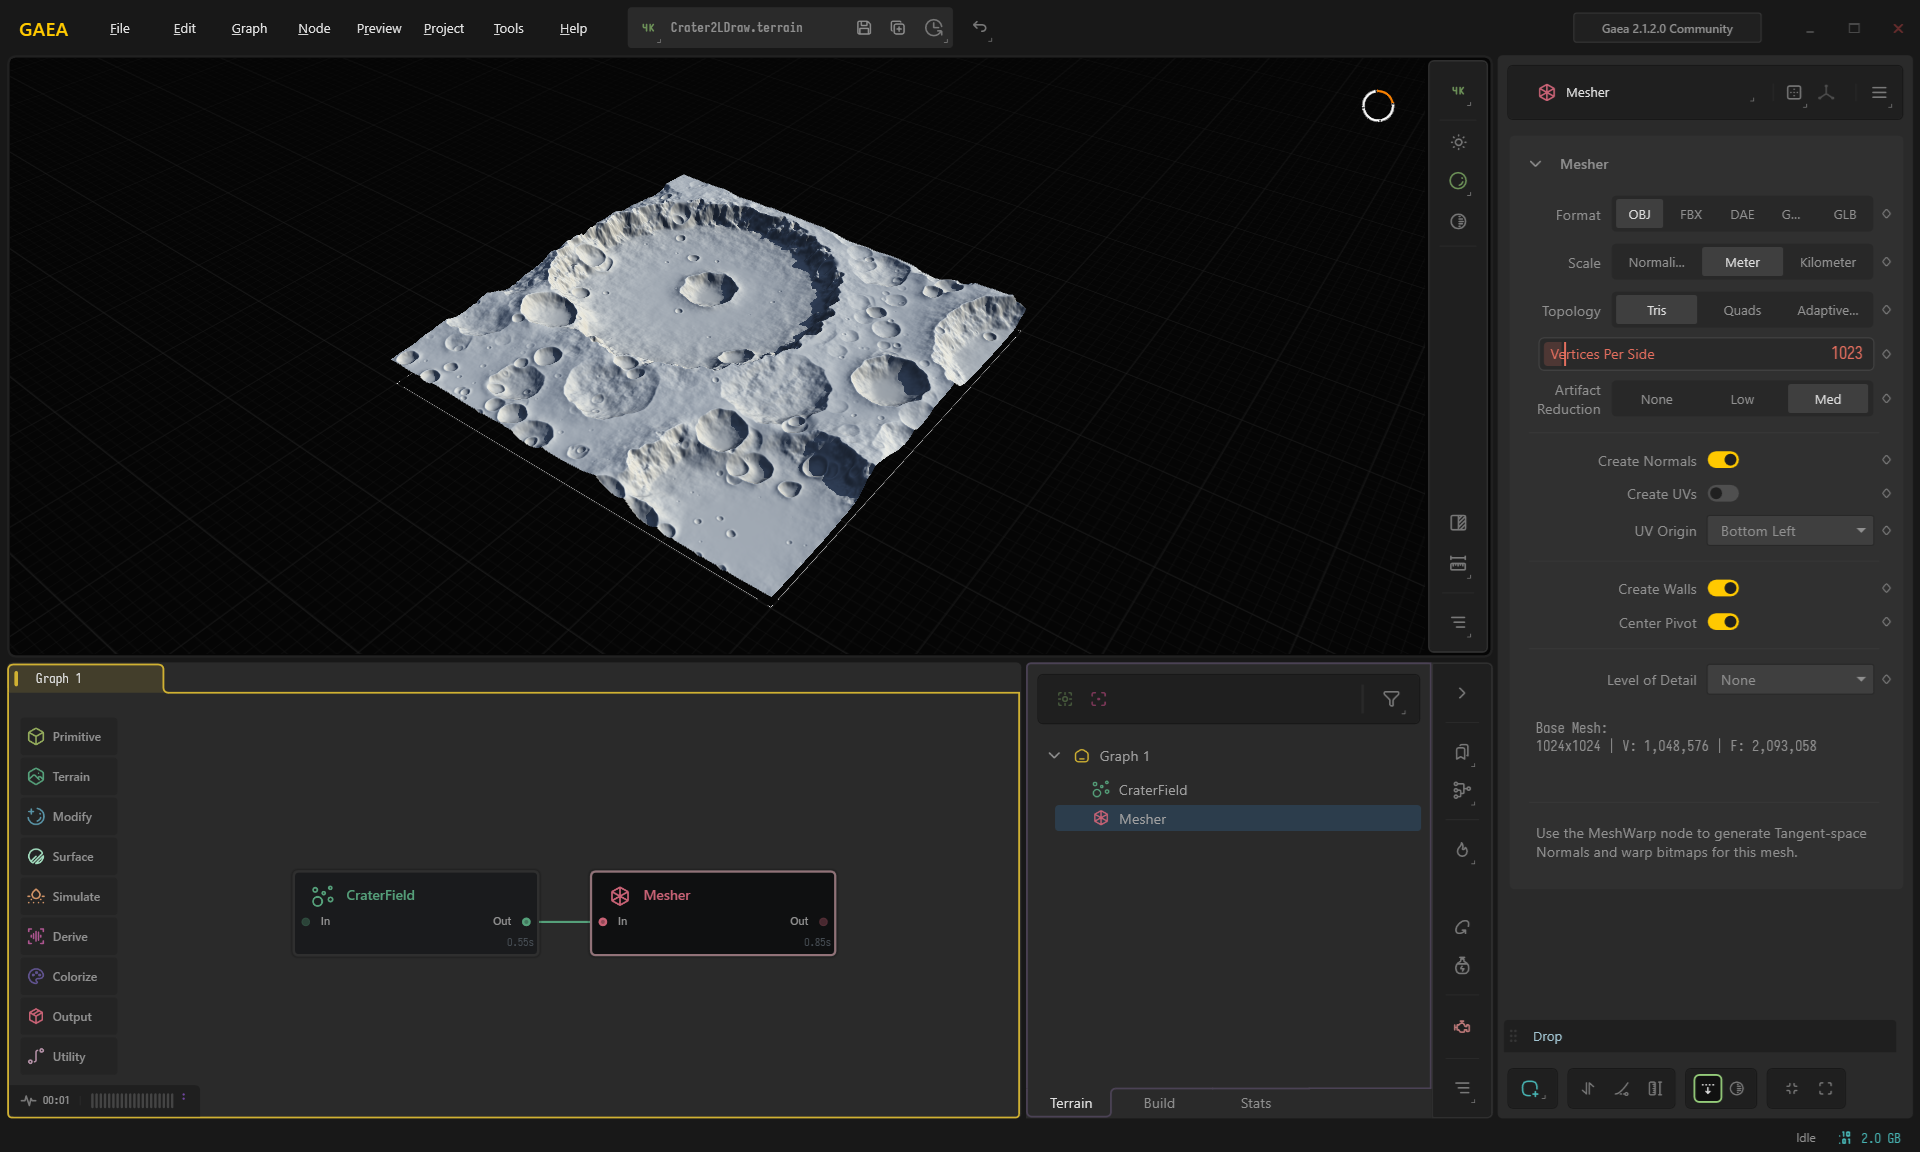
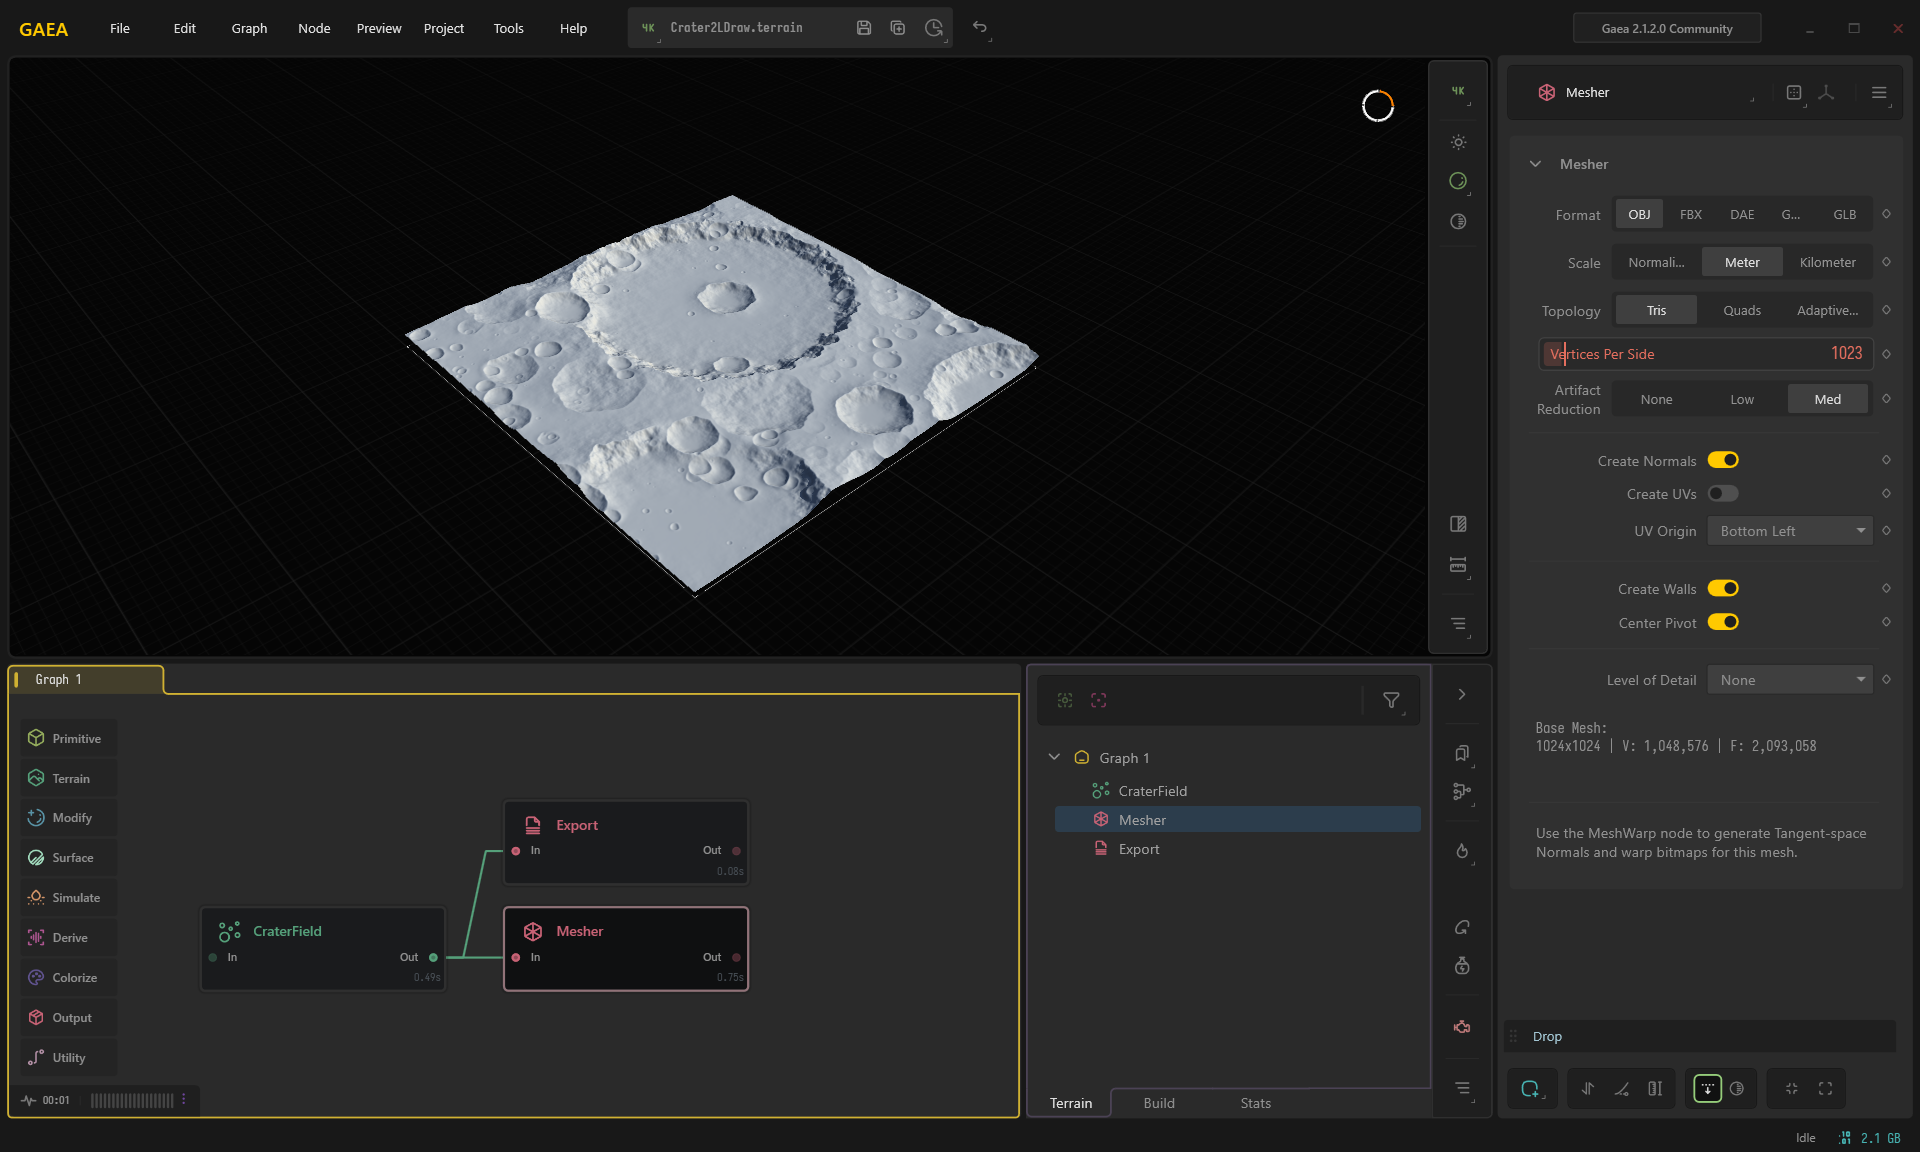
Optimizations

diff --git a/README.md b/README.md
@@ -3,11 +3,11 @@
 ## Disclaimer
 
 The following instructions are intended to serve as an idea on how to create a crater landscape compatible with LDraw. 
-There are several ways to generate such landscapes or cliffs. For example, the following JavaScripts:
+There are several ways to generate landscapes or cliffs. For example, the following JavaScripts:
 - https://gitlab.com/sylvainls/ldraw_landscape.html
 - https://gitlab.com/sylvainls/ldraw_cliff.html
 
-Unfortunately, these variants do not work for crater landscapes. This prompted the idea of using Gaea to export the generated landscape into an LDraw-compatible format. The procedure described below should be possible for any landscape generated with Gaea, not just for crater landscapes. However, since Bricklink Studio uses bricks instead of plates, an intermediate step with, for example, MeshLab would probably be necessary to first scale the landscape generated in Gaea along the z-axis. The basic idea, however, remains the same.
+Unfortunately, these variants do not work directly for crater landscapes. This prompted the idea of using Gaea to export the generated landscape into an LDraw-compatible format somehow. The procedure described below should be possible for any landscape generated with Gaea, not just for crater landscapes. However, since Bricklink Studio uses bricks instead of plates, an intermediate step with MeshLab is necessary to first scale the landscape generated in Gaea along the z-axis. The basic idea, however, remains the same. Alternatively you can stop after step 4 and use the generated heightfield *.png (grayscale) file together with https://gitlab.com/sylvainls/ldraw_landscape.html. This is probably easier, but also less accurate. Do whatever you think is the better way in your case.
 
 The instructions assume that you already have some familiarity with Bricklink Studio. Accordingly, not every step is explained in detail.
 
@@ -20,8 +20,7 @@ The instructions assume that you already have some familiarity with Bricklink St
 
 ### Step 1
 Create a new crater field within Gaea. Play with the values as you wish.  
-- **Comment I**:  I took a depth of 2, because later in the process the z-axis is compressed by replacing bricks with plates.
-- **Comment II**:  Activate the drop option to place the generated terrain as low as possible.
+- **Comment**: Activate the drop option to place the generated terrain as low as possible.
 
 ![Alt-Text](images/step_01.png)
 
@@ -32,47 +31,94 @@ Add a Mesher to later export the generated terrain as *.obj file.
 
 ![Alt-Text](images/step_02.png)
 
-### Step 3
-Once you are satisfied with your terrain, it can be exported by building the project.
+### Step 3 
+Add an Export to later export the generated terrain as a heightfield *.png (grayscale) file.
+- **Comment I**: Activate the drop option to place the generated terrain as low as possible.
+- **Comment II**: Activate the autolevel to get a clear heightfield file with black as the lowest point and white as the highest.
 
 ![Alt-Text](images/step_03.png)
 
 ### Step 4
-Open Bricklink Studio and import the 3D model (*.ojb file) you previously created and exported with Gaea.
+Once you are satisfied with your terrain, it can be exported by building the project. An *.obj file and a heightfield *.png (grayscale) file are generated.
+- **Comment**: The generated *.obj file is too large to put it on GitHub. 104MB in our example here.
 
 ![Alt-Text](images/step_04.png)
 
-### Step 5
-Adjust your import settings.
-- **Comment I**: Be aware of the fact that the generated model will contain only bricks and not plates.
-- **Comment II**: You can play around with the different values for each options. But the ones in the screenshot worked for me. Escpecially the option 'Allocate a step per Layer' is very helpful for the later process.
+The exported heightfield *.png (grayscale) file looks as follows.
 
-![Alt-Text](images/step_05.png)
+![Alt-Text](images/step_04_export.png)
+
+### Step 5
+If you wish you can stop following the instructions here and use the generated heightfield file from the previous step together with https://gitlab.com/sylvainls/ldraw_landscape.html. This is probably easier, but also less accurate. Alternatively you can follow the next steps.
 
 ### Step 6
-Wait...
-
+Import the previously generated *.obj file.
 ![Alt-Text](images/step_06.png)
 
 ### Step 7
-Once the waiting is over close the appearing error window by pressing x.
-- **Comment**: I'm unsure why this error appears. One possibility I can think of are the collisions in the model (we fix them later) or the fact that there are too many parts in the model to compute the connectivities.
-
+The generated terrain from Gaea should be visible.
 ![Alt-Text](images/step_07.png)
 
 ### Step 8
-If everything worked as expected you should see the generated terrain from Gaea built ouf of bricks.
-- **Comment**: The model does have collisions. I assume this is because of some rounding errors / edge cases within the conversation algorithm of Bricklink Studio (we fix them later).
-
+Go to 'Filters' -> 'Normal, Curvatures and Orientation' -> 'Transform: Scale, Normalize'
 ![Alt-Text](images/step_08.png)
 
 ### Step 9
-Export the model in the LDraw format.
-- **Comment**: This is done to later replace the bricks within the model with plates. There is maybe a better way of doing it directly within Bricklink Studio, but I am not aware of such a way.
+Scale only the logically z-axis of the model by factor 3.
+- **Comment**: In our case the logically z-axis is technically the y-axis. Use the axis corresponding to the height of the model and deactivate 'Uniform Scaling'.
 
 ![Alt-Text](images/step_09.png)
 
 ### Step 10
+The generated terrain from Gaea should be visible again but with a higher height.
+
+![Alt-Text](images/step_10.png)
+
+### Step 11
+Go to 'File' -> 'Export Mesh As...'
+
+![Alt-Text](images/step_11.png)
+
+### Step 12
+Save the new model again as a (different) *.obj file.
+![Alt-Text](images/step_12.png)
+
+### Step 13
+Open Bricklink Studio and import the 3D model (*.ojb file) you previously created and exported with MeshLab.
+
+![Alt-Text](images/step_13.png)
+
+### Step 14
+Adjust your import settings.
+- **Comment I**: Be aware of the fact that the generated model will contain only bricks and not plates.
+- **Comment II**: You can play around with the different values for each options. But the ones in the screenshot worked for me. Escpecially the option 'Allocate a step per Layer' is very helpful for the later process.
+
+![Alt-Text](images/step_14.png)
+
+### Step 15
+Wait...
+
+![Alt-Text](images/step_15.png)
+
+### Step 16
+Once the waiting is over close the appearing error window by pressing x.
+- **Comment**: I'm unsure why this error appears. One possibility I can think of are the collisions in the model (we fix them later) or the fact that there are too many parts in the model to compute the connectivities.
+
+![Alt-Text](images/step_16.png)
+
+### Step 17
+If everything worked as expected you should see the generated terrain from Gaea built ouf of bricks.
+- **Comment**: The model does have collisions. I assume this is because of some rounding errors / edge cases within the conversation algorithm of Bricklink Studio (we fix them later).
+
+![Alt-Text](images/step_17.png)
+
+### Step 18
+Export the model in the LDraw format.
+- **Comment**: This is done to later replace the bricks within the model with plates. There is maybe a better way of doing it directly within Bricklink Studio, but I am not aware of such a way.
+
+![Alt-Text](images/step_18.png)
+
+### Step 19
 We need to replace the bricks within the model with the corresponding plates. The mapping is as follows:
 - 1x1 brick: 3005.dat -> 1x1 plate: 3024.dat
 - 1x2 brick: 3004.dat -> 1x2 plate: 3023.dat
@@ -90,54 +136,49 @@ Assuming the file in step 9 was exported as Crater2LDraw.ldr we can use Microsof
 >(Get-Content Crater2LDraw.ldr).Replace('3005.dat', '3024.dat').Replace('3004.dat', '3023.dat').Replace('3622.dat', '3623.dat').Replace('3010.dat', '3710.dat').Replace('3009.dat', '3666.dat').Replace('3008.dat', '3460.dat').Replace('3003.dat', '3022.dat').Replace('3002.dat', '3021.dat').Replace('3001.dat', '3020.dat').Replace('2456.dat', '3795.dat').Replace('3007.dat', '3034.dat') | Set-Content Crater2LDraw_Plates.ldr
 - **Comment**: You can use whatever tool you want to use to use for replacing. On Linux you may want to use for example `sed`.
 
-### Step 11
+### Step 20
 Create a new model within Bricklink Studio and import the transformed model Crater2LDraw_Plates.ldr from the previous step.
 
-![Alt-Text](images/step_11.png)
+![Alt-Text](images/step_20.png)
 
-### Step 12
+### Step 21
 Because the whole imported model is summarized as a submodel, we have to release this submodel first.
 
-![Alt-Text](images/step_12.png)
+![Alt-Text](images/step_21.png)
 
-### Step 13
+### Step 22
 Wait...
 
-![Alt-Text](images/step_13.png)
+![Alt-Text](images/step_22.png)
 
-### Step 14
+### Step 23
 After releasing the submodel, we have to delete the empty steps.
 
-![Alt-Text](images/step_14.png)
+![Alt-Text](images/step_23.png)
 
-### Step 15
+### Step 24
 Now we have a model built out of plates with empty spaces between the plate layers.
 - **Comment**: If you haven't yet, I recommend to save this model now.
 
-![Alt-Text](images/step_15.png)
+![Alt-Text](images/step_24.png)
 
-### Step 16
-The empty spaces between the plate layers in detail. Every layer is represented by a step.
-
-![Alt-Text](images/step_16.png)
-
-### Step 17
+### Step 25
 Create a submodel for each layer by selecting every part within a step.
 
-![Alt-Text](images/step_17.png)
+![Alt-Text](images/step_25.png)
 
-### Step 18
+### Step 26
 Name the submodel according to the layer to have a better understanding of it's position within the whole model.
 
-![Alt-Text](images/step_18.png)
+![Alt-Text](images/step_26.png)
 
-### Step 19
+### Step 27
 By removing every empty spaces between the layers, you have generated a crater landscape. Now you can go through each submodel (layer) individually and resolve the collisions.
 
-![Alt-Text](images/step_19.png)
+![Alt-Text](images/step_27.png)
 
-### Step 20
+### Step 28
 Color each layer as desired and/or further modify the model, for example with a support structure.
 
-![Alt-Text](images/step_20.png)
+![Alt-Text](images/step_28.png)
 
